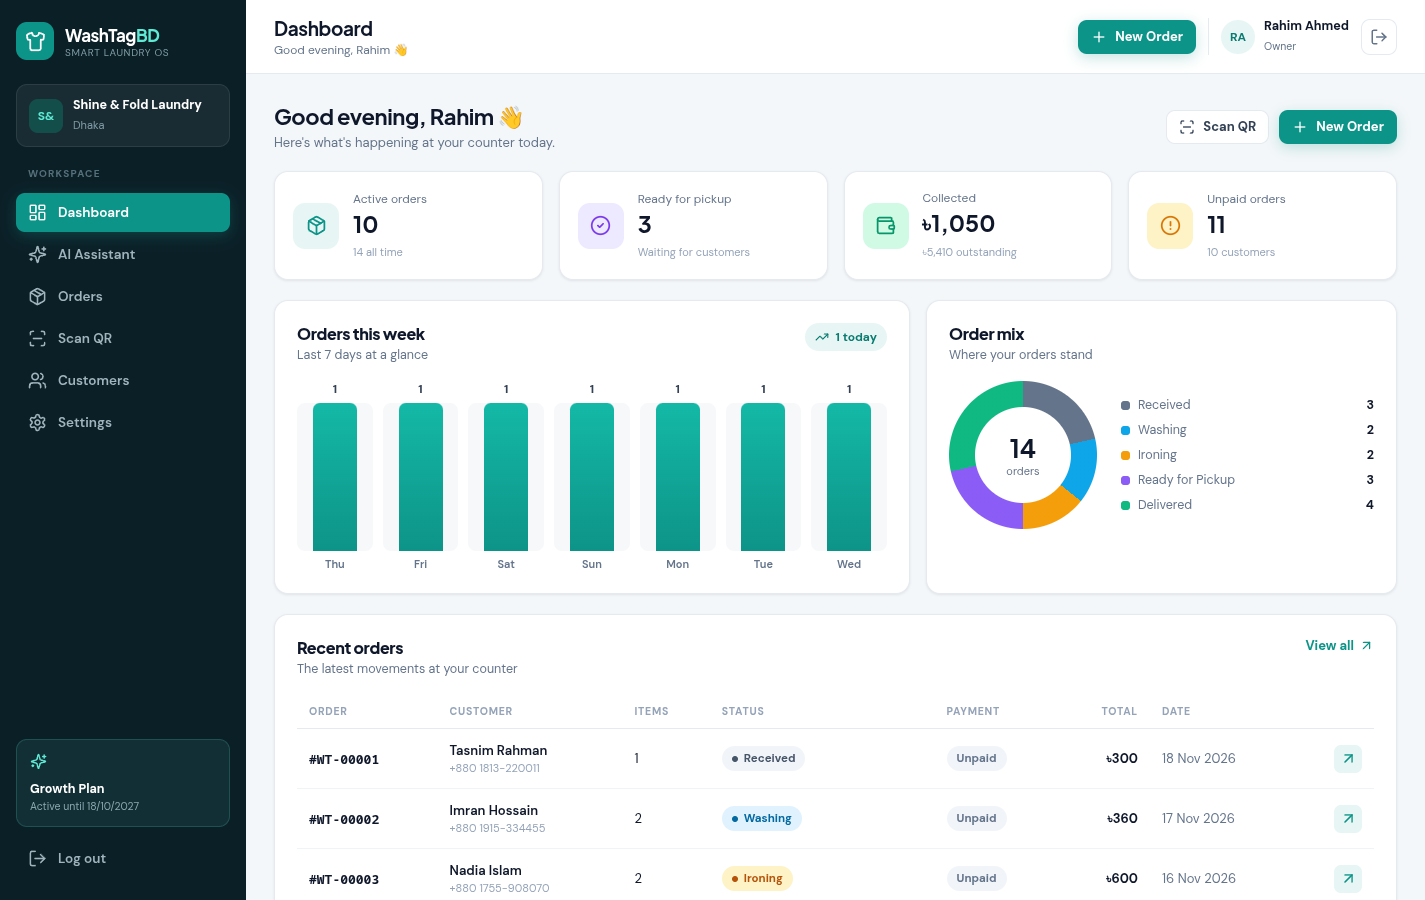
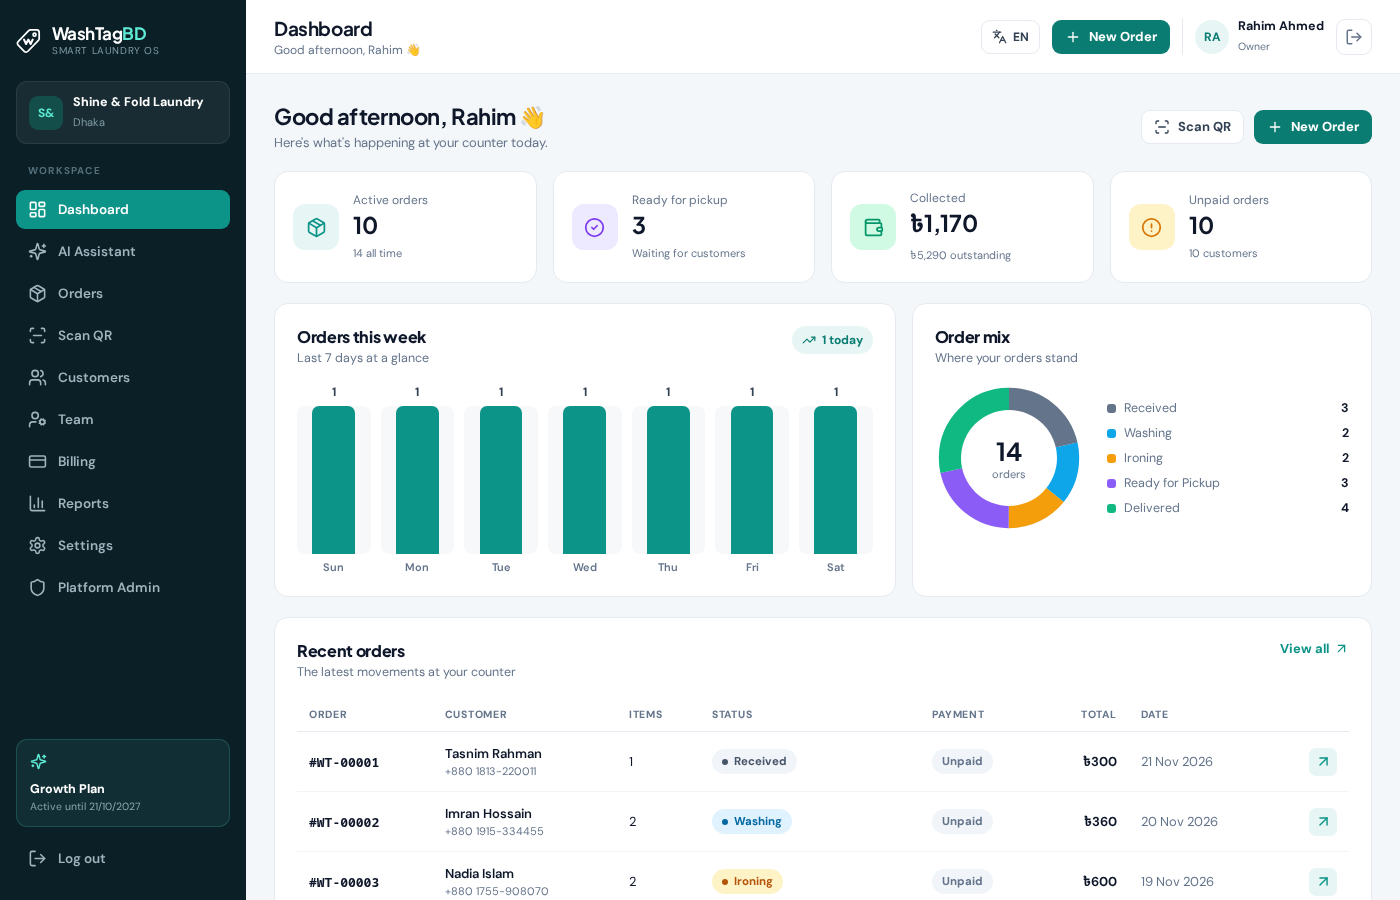
docs: refresh screenshots and demo GIF for the current UI
All four screenshots were from November 18 and showed the old shirt-in-a-tile
logo, a stale sidebar (no Team/Billing/Reports/Admin), old data and gradient
charts. Regenerated from the live demo: dashboard, assistant (with a real
answer), customer tracking (mobile) and a new platform-admin shot showing the
Ant Design table. Rebuilt demo.gif across five current screens.

Added frontend/capture-docs.mjs so the assets are reproducible, and referenced
it from the README. Corrected the language-toggle location to the app header.

diff --git a/README.md b/README.md
@@ -8,11 +8,13 @@ Everything runs in Docker. You do **not** need Node, .NET, Postgres or Redis ins
 
 ## See it in action
 
-![WashTag BD demo — dashboard to AI assistant](docs/demo.gif)
+![WashTag BD demo — dashboard, assistant, admin, billing and customer tracking](docs/demo.gif)
 
-| Owner dashboard | Customer tracking (mobile) | AI Shop Assistant |
-| --- | --- | --- |
-| ![Owner dashboard](docs/screenshots/dashboard.png) | ![Customer tracking page](docs/screenshots/customer-tracking.png) | ![AI assistant](docs/screenshots/assistant.png) |
+| Owner dashboard | Customer tracking (mobile) | AI Shop Assistant | Platform admin |
+| --- | --- | --- | --- |
+| ![Owner dashboard](docs/screenshots/dashboard.png) | ![Customer tracking page](docs/screenshots/customer-tracking.png) | ![AI assistant](docs/screenshots/assistant.png) | ![Platform admin](docs/screenshots/admin.png) |
+
+Screenshots show the flat, solid-colour interface and the custom WashTag line-art mark. Regenerate them with `node frontend/capture-docs.mjs` against a running demo stack.
 
 ### Architecture
 
@@ -136,7 +138,7 @@ The dependency rule points inward: `Api → Infrastructure → Application → D
 - Index rebuilds automatically on every order/status/payment change, with a manual "Rebuild index" button
 
 **Bengali UI**
-- `EN / বাং` toggle in the sidebar, login and customer tracking page; persists per browser
+- `EN / বাং` toggle in the app header, login and customer tracking page; persists per browser
 - Navigation, dashboard, order statuses, assistant chrome and the customer tracking page are translated; other screens still use English with automatic fallback per string (contributions to `frontend/src/i18n/translations.js` welcome)
 
 **Platform**
